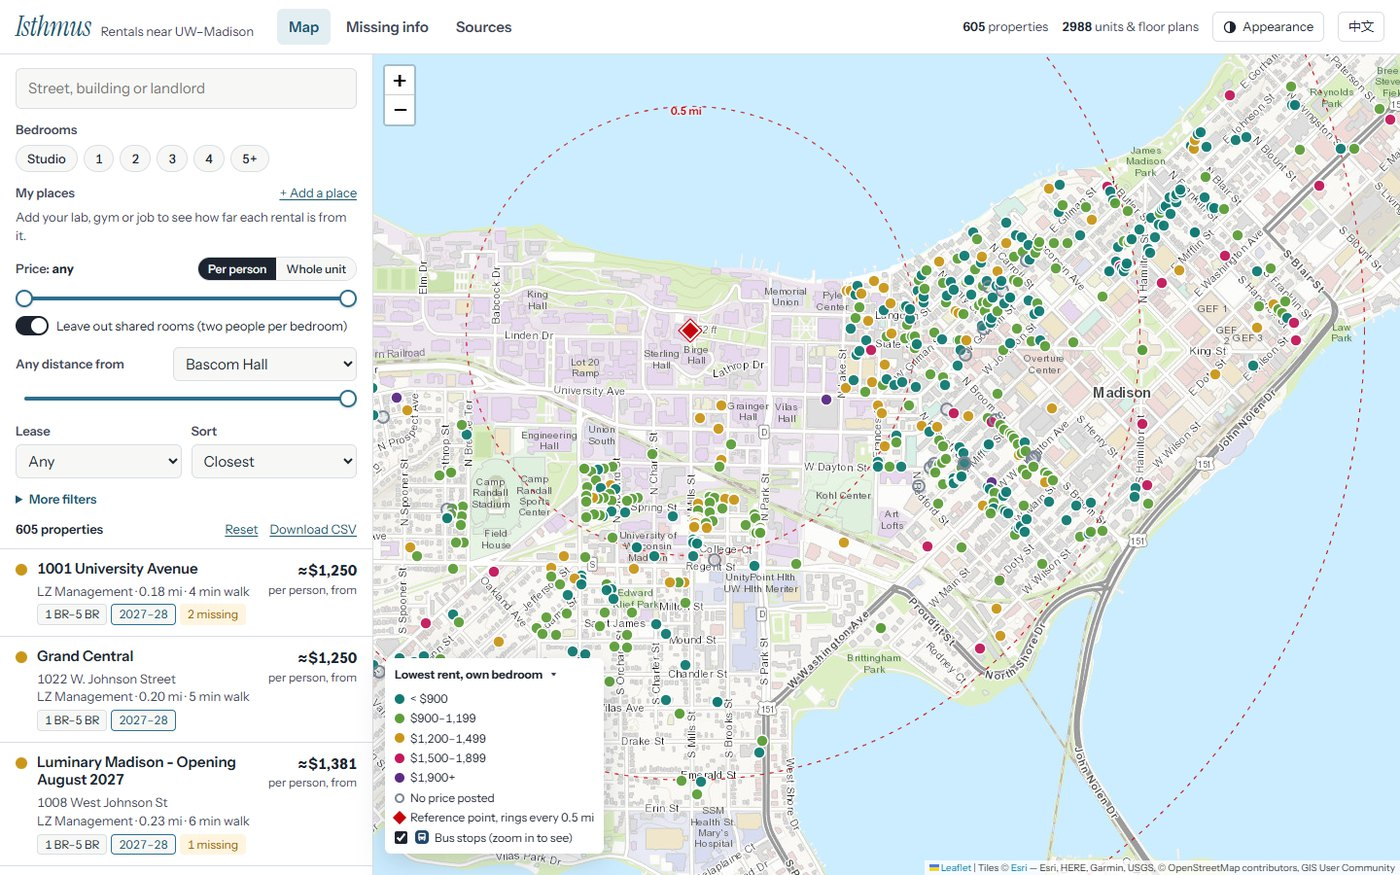
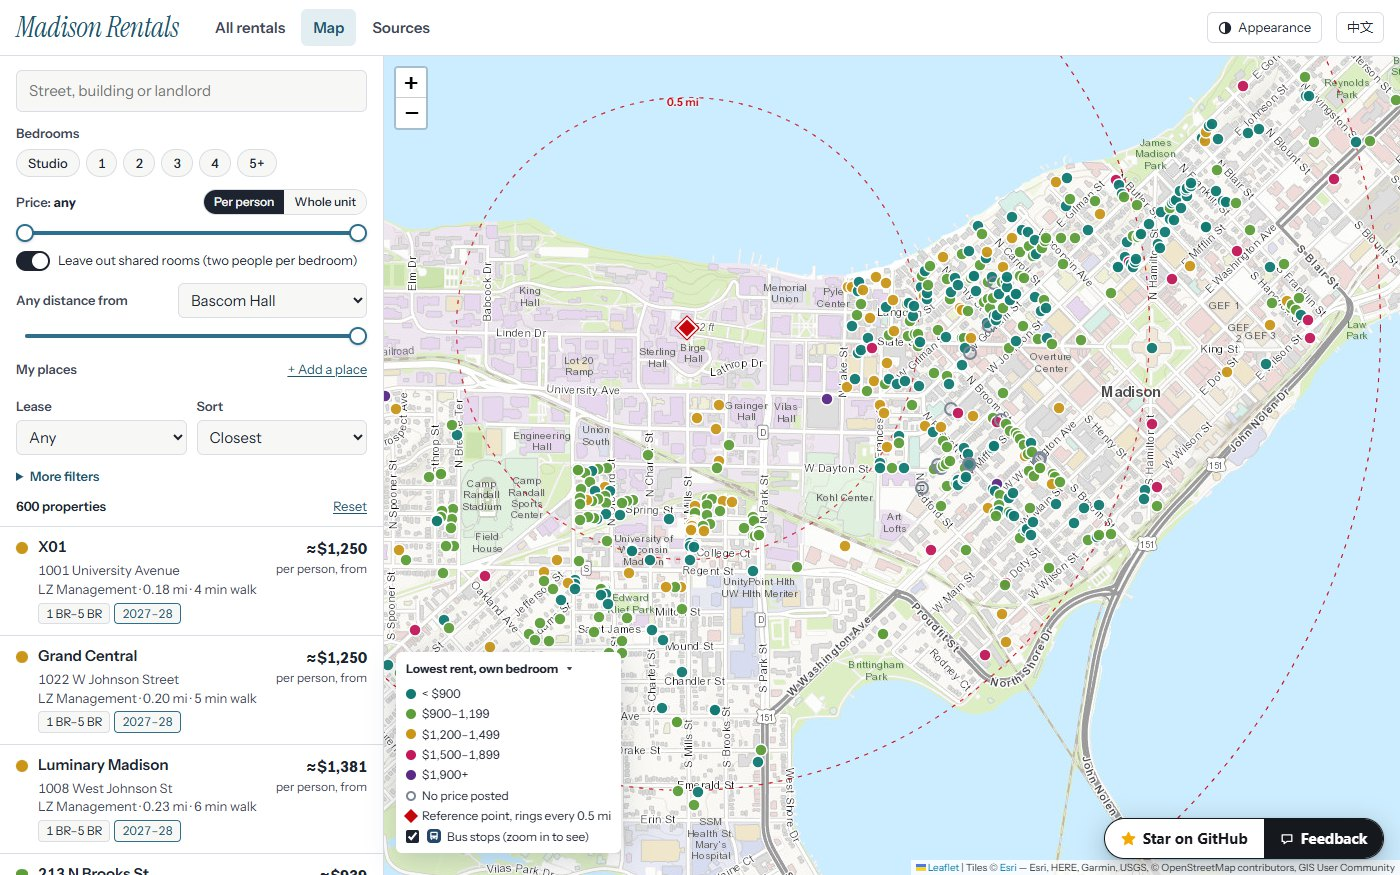
Cards: tools moved to madisonstudents.com subdomains; Isthmus Rentals is now Madison Rentals (new screenshot)

diff --git a/index.html b/index.html
@@ -615,34 +615,34 @@ h2{--w:780}
       <ul class="tbx">
         <!-- work:tools -->
         <li>
-          <a class="tbx-shot" href="https://webgrs.github.io/uw-course-lookup/" target="_blank" rel="noopener" tabindex="-1" aria-hidden="true"><img src="assets/uw-course-lookup.jpg" width="1400" height="897" alt="" loading="lazy" decoding="async"></a>
+          <a class="tbx-shot" href="https://courses.madisonstudents.com/" target="_blank" rel="noopener" tabindex="-1" aria-hidden="true"><img src="assets/uw-course-lookup.jpg" width="1400" height="897" alt="" loading="lazy" decoding="async"></a>
           <div class="tbx-tx">
             <h3>uw-course-lookup</h3>
             <p class="tbx-ds"><span class="en">Grades, seats and a degree-aware timetable planner for every Fall 2026 UW–Madison course</span><span class="zh" lang="zh-CN">Fall 2026 全部 UW–Madison 课程的成绩、座位，外加了解你学位要求的课表规划器</span></p>
             <p class="tbx-go">
-              <a class="open" href="https://webgrs.github.io/uw-course-lookup/" target="_blank" rel="noopener"><span class="en">Open<span class="sr"> uw-course-lookup</span></span><span class="zh" lang="zh-CN">打开<span class="sr"> uw-course-lookup</span></span></a>
+              <a class="open" href="https://courses.madisonstudents.com/" target="_blank" rel="noopener"><span class="en">Open<span class="sr"> uw-course-lookup</span></span><span class="zh" lang="zh-CN">打开<span class="sr"> uw-course-lookup</span></span></a>
               <a class="star" href="https://github.com/WEBGRS/uw-course-lookup" target="_blank" rel="noopener"><svg viewBox="0 0 16 16" width="15" height="15" aria-hidden="true" focusable="false"><path d="M8 1.2l2.1 4.5 4.9.6-3.6 3.4.9 4.9L8 12.2 3.7 14.6l.9-4.9L1 6.3l4.9-.6z" fill="currentColor" stroke="currentColor" stroke-width="1" stroke-linejoin="round"/></svg><span class="en">Star<span class="sr"> uw-course-lookup on GitHub</span></span><span class="zh" lang="zh-CN">点星<span class="sr"> uw-course-lookup（GitHub）</span></span></a>
             </p>
           </div>
         </li>
         <li>
-          <a class="tbx-shot" href="https://webgrs.github.io/madison-rentals/" target="_blank" rel="noopener" tabindex="-1" aria-hidden="true"><img src="assets/madison-rentals.jpg" width="1400" height="875" alt="" loading="lazy" decoding="async"></a>
+          <a class="tbx-shot" href="https://housing.madisonstudents.com/" target="_blank" rel="noopener" tabindex="-1" aria-hidden="true"><img src="assets/madison-rentals.jpg" width="1400" height="875" alt="" loading="lazy" decoding="async"></a>
           <div class="tbx-tx">
-            <h3>Isthmus Rentals</h3>
+            <h3>Madison Rentals</h3>
             <p class="tbx-ds"><span class="en">Every rental near campus on one map, each value labeled with where it came from</span><span class="zh" lang="zh-CN">校园周边的租房信息都在一张地图上，每个数值都标明来源</span></p>
             <p class="tbx-go">
-              <a class="open" href="https://webgrs.github.io/madison-rentals/" target="_blank" rel="noopener"><span class="en">Open<span class="sr"> Isthmus Rentals</span></span><span class="zh" lang="zh-CN">打开<span class="sr"> Isthmus Rentals</span></span></a>
-              <a class="star" href="https://github.com/WEBGRS/madison-rentals" target="_blank" rel="noopener"><svg viewBox="0 0 16 16" width="15" height="15" aria-hidden="true" focusable="false"><path d="M8 1.2l2.1 4.5 4.9.6-3.6 3.4.9 4.9L8 12.2 3.7 14.6l.9-4.9L1 6.3l4.9-.6z" fill="currentColor" stroke="currentColor" stroke-width="1" stroke-linejoin="round"/></svg><span class="en">Star<span class="sr"> Isthmus Rentals on GitHub</span></span><span class="zh" lang="zh-CN">点星<span class="sr"> Isthmus Rentals（GitHub）</span></span></a>
+              <a class="open" href="https://housing.madisonstudents.com/" target="_blank" rel="noopener"><span class="en">Open<span class="sr"> Madison Rentals</span></span><span class="zh" lang="zh-CN">打开<span class="sr"> Madison Rentals</span></span></a>
+              <a class="star" href="https://github.com/WEBGRS/madison-rentals" target="_blank" rel="noopener"><svg viewBox="0 0 16 16" width="15" height="15" aria-hidden="true" focusable="false"><path d="M8 1.2l2.1 4.5 4.9.6-3.6 3.4.9 4.9L8 12.2 3.7 14.6l.9-4.9L1 6.3l4.9-.6z" fill="currentColor" stroke="currentColor" stroke-width="1" stroke-linejoin="round"/></svg><span class="en">Star<span class="sr"> Madison Rentals on GitHub</span></span><span class="zh" lang="zh-CN">点星<span class="sr"> Madison Rentals（GitHub）</span></span></a>
             </p>
           </div>
         </li>
         <li>
-          <a class="tbx-shot" href="https://webgrs.github.io/madison-food-map/" target="_blank" rel="noopener" tabindex="-1" aria-hidden="true"><img src="assets/madison-food-map.jpg" width="1400" height="875" alt="" loading="lazy" decoding="async"></a>
+          <a class="tbx-shot" href="https://food.madisonstudents.com/" target="_blank" rel="noopener" tabindex="-1" aria-hidden="true"><img src="assets/madison-food-map.jpg" width="1400" height="875" alt="" loading="lazy" decoding="async"></a>
           <div class="tbx-tx">
             <h3>Madison Eats</h3>
             <p class="tbx-ds"><span class="en">Every place to eat in Dane County on one map, scored from six rating sources</span><span class="zh" lang="zh-CN">戴恩县所有能吃饭的地方放在一张地图上，按六个评分来源打分</span></p>
             <p class="tbx-go">
-              <a class="open" href="https://webgrs.github.io/madison-food-map/" target="_blank" rel="noopener"><span class="en">Open<span class="sr"> Madison Eats</span></span><span class="zh" lang="zh-CN">打开<span class="sr"> Madison Eats</span></span></a>
+              <a class="open" href="https://food.madisonstudents.com/" target="_blank" rel="noopener"><span class="en">Open<span class="sr"> Madison Eats</span></span><span class="zh" lang="zh-CN">打开<span class="sr"> Madison Eats</span></span></a>
               <a class="star" href="https://github.com/WEBGRS/madison-food-map" target="_blank" rel="noopener"><svg viewBox="0 0 16 16" width="15" height="15" aria-hidden="true" focusable="false"><path d="M8 1.2l2.1 4.5 4.9.6-3.6 3.4.9 4.9L8 12.2 3.7 14.6l.9-4.9L1 6.3l4.9-.6z" fill="currentColor" stroke="currentColor" stroke-width="1" stroke-linejoin="round"/></svg><span class="en">Star<span class="sr"> Madison Eats on GitHub</span></span><span class="zh" lang="zh-CN">点星<span class="sr"> Madison Eats（GitHub）</span></span></a>
             </p>
           </div>
@@ -669,7 +669,7 @@ h2{--w:780}
       <ul class="index" id="index">
         <!-- work:index -->
         <li><a href="#route-animator" data-i="0"><span class="nm">route-animator</span><span class="ds"><span class="en">Flies a route over a satellite globe and records the video in the browser</span><span class="zh" lang="zh-CN">在卫星地球上飞出一条路线，并直接在浏览器里录成视频</span></span><span class="kd"><span class="en">Web app</span><span class="zh" lang="zh-CN">网页应用</span></span></a></li>
-        <li><a href="#madison-rentals" data-i="1"><span class="nm">Isthmus Rentals</span><span class="ds"><span class="en">Every rental near campus on one map, each value labeled with where it came from</span><span class="zh" lang="zh-CN">校园周边的租房信息都在一张地图上，每个数值都标明来源</span></span><span class="kd"><span class="en">Web app, data</span><span class="zh" lang="zh-CN">网页应用 · 数据</span></span></a></li>
+        <li><a href="#madison-rentals" data-i="1"><span class="nm">Madison Rentals</span><span class="ds"><span class="en">Every rental near campus on one map, each value labeled with where it came from</span><span class="zh" lang="zh-CN">校园周边的租房信息都在一张地图上，每个数值都标明来源</span></span><span class="kd"><span class="en">Web app, data</span><span class="zh" lang="zh-CN">网页应用 · 数据</span></span></a></li>
         <li><a href="#madison-food-map" data-i="2"><span class="nm">Madison Eats</span><span class="ds"><span class="en">Every place to eat in Dane County on one map, scored from six rating sources</span><span class="zh" lang="zh-CN">戴恩县所有能吃饭的地方放在一张地图上，按六个评分来源打分</span></span><span class="kd"><span class="en">Web app, data</span><span class="zh" lang="zh-CN">网页应用 · 数据</span></span></a></li>
         <li><a href="#uw-course-lookup" data-i="3"><span class="nm">uw-course-lookup</span><span class="ds"><span class="en">Grades, seats and a degree-aware timetable planner for every Fall 2026 UW–Madison course</span><span class="zh" lang="zh-CN">Fall 2026 全部 UW–Madison 课程的成绩、座位，外加了解你学位要求的课表规划器</span></span><span class="kd"><span class="en">Web app + API</span><span class="zh" lang="zh-CN">网页应用 + API</span></span></a></li>
         <li><a href="#photo-organizer" data-i="4"><span class="nm">photo-organizer</span><span class="ds"><span class="en">Sorts a 310&nbsp;GB photo library on a local GPU</span><span class="zh" lang="zh-CN">在本地 GPU 上整理 310&nbsp;GB 的照片库</span></span><span class="kd"><span class="en">Python, CLIP</span><span class="zh" lang="zh-CN">Python、CLIP</span></span></a></li>
@@ -742,9 +742,9 @@ h2{--w:780}
           <figure class="cap-shot"><img src="assets/madison-rentals.jpg" width="1400" height="875" alt="Map of rentals near the UW–Madison campus, with filters and a price-colored pin for each property" loading="lazy" decoding="async"></figure>
           <div class="pg"><div class="pg-in">
             <p class="cap-n" data-k style="--k:0">02 / 06 &middot; <span class="en">Web app, data</span><span class="zh" lang="zh-CN">网页应用 · 数据</span></p>
-            <h3 aria-label="Isthmus Rentals"><span aria-hidden="true"><span class="ch" style="--c:0">I</span><span class="ch" style="--c:1">s</span><span class="ch" style="--c:2">t</span><span class="ch" style="--c:3">h</span><span class="ch" style="--c:4">m</span><span class="ch" style="--c:5">u</span><span class="ch" style="--c:6">s</span><span class="ch" style="--c:7">&nbsp;</span><span class="ch" style="--c:8">R</span><span class="ch" style="--c:9">e</span><span class="ch" style="--c:10">n</span><span class="ch" style="--c:11">t</span><span class="ch" style="--c:12">a</span><span class="ch" style="--c:13">l</span><span class="ch" style="--c:14">s</span></span></h3>
+            <h3 aria-label="Madison Rentals"><span aria-hidden="true"><span class="ch" style="--c:0">M</span><span class="ch" style="--c:1">a</span><span class="ch" style="--c:2">d</span><span class="ch" style="--c:3">i</span><span class="ch" style="--c:4">s</span><span class="ch" style="--c:5">o</span><span class="ch" style="--c:6">n</span><span class="ch" style="--c:7">&nbsp;</span><span class="ch" style="--c:8">R</span><span class="ch" style="--c:9">e</span><span class="ch" style="--c:10">n</span><span class="ch" style="--c:11">t</span><span class="ch" style="--c:12">a</span><span class="ch" style="--c:13">l</span><span class="ch" style="--c:14">s</span></span></h3>
             <p class="hook" data-k style="--k:2"><span class="en"><span class="count" data-to="605">605</span> rentals near campus on one map, every value labeled by where it came from, every gap turned into a question.</span><span class="zh" lang="zh-CN"><span class="count" data-to="605">605</span> 处校园周边的租房放在一张地图上，每个数值都标明来源，每处缺失都变成一个要问的问题。</span></p>
-            <p class="links" data-k style="--k:3"><a href="https://webgrs.github.io/madison-rentals/" target="_blank" rel="noopener"><span class="en">Live site</span><span class="zh" lang="zh-CN">在线站点</span></a><a href="https://github.com/WEBGRS/madison-rentals" target="_blank" rel="noopener"><span class="en">Source</span><span class="zh" lang="zh-CN">源码</span></a></p>
+            <p class="links" data-k style="--k:3"><a href="https://housing.madisonstudents.com/" target="_blank" rel="noopener"><span class="en">Live site</span><span class="zh" lang="zh-CN">在线站点</span></a><a href="https://github.com/WEBGRS/madison-rentals" target="_blank" rel="noopener"><span class="en">Source</span><span class="zh" lang="zh-CN">源码</span></a></p>
             <p class="built" data-k style="--k:3"><span class="en">Leaflet, vanilla JS, Python collectors, Madison Metro GTFS</span><span class="zh" lang="zh-CN">Leaflet、原生 JS、Python 采集脚本、Madison Metro GTFS</span></p>
             <ul>
               <li data-k style="--k:4"><span class="en"><span class="count" data-to="2988">2,988</span> units and floor plans from 67 landlords, merged from their own sites and the UW Off-Campus Housing service.</span><span class="zh" lang="zh-CN"><span class="count" data-to="2988">2,988</span> 个单元和户型，来自 67 位房东，由他们自己的网站和 UW Off-Campus Housing 服务合并而成。</span></li>
@@ -752,7 +752,7 @@ h2{--w:780}
             </ul>
           </div></div>
           <div class="pg"><div class="pg-in">
-            <p class="pg-h" data-k style="--k:0"><b>Isthmus Rentals</b> &middot; <span class="en">How it works</span><span class="zh" lang="zh-CN">运作方式</span></p>
+            <p class="pg-h" data-k style="--k:0"><b>Madison Rentals</b> &middot; <span class="en">How it works</span><span class="zh" lang="zh-CN">运作方式</span></p>
             <ul>
               <li data-k style="--k:1"><span class="en">Every value carries its source: the landlord&rsquo;s site, the UW list, text read out of a description, or nothing. Unknown stays unknown instead of becoming a plausible guess.</span><span class="zh" lang="zh-CN">每个值都带着来源：房东网站、UW 列表、从描述里读出的文字，或者没有来源。未知就保持未知，不会被一个看似合理的猜测替代。</span></li>
               <li data-k style="--k:2"><span class="en">Landlords quote rent per person or per unit and rarely say which. Each price is tagged with its evidence; when none settles it, the price is read as whichever puts one person between $800 and $1,500.</span><span class="zh" lang="zh-CN">房东报价有的按人、有的按整套，而且很少说明是哪种。每个价格都标有依据；依据都不成立时，就按能让一个人的租金落在 $800 到 $1,500 之间的那种理解来读。</span></li>
@@ -862,7 +862,7 @@ h2{--w:780}
 <!-- /fig:madison-rentals-provenance --><figcaption><span class="en">Where seven fields came from across all <span class="count" data-to="605">605</span> properties. Solid is a source, dashed is none. Furnished is unknown for 85% of them, and the map says so.</span><span class="zh" lang="zh-CN">七个字段的来源分布，覆盖全部 <span class="count" data-to="605">605</span> 处房源。实线是有来源，虚线是没有。有 85% 的房源不知道有没有家具，地图如实标出。</span></figcaption></figure>
           </div></div>
           <div class="pg"><div class="pg-in">
-            <p class="pg-h" data-k style="--k:0"><b>Isthmus Rentals</b> &middot; <span class="en">What the data says</span><span class="zh" lang="zh-CN">数据说了什么</span></p>
+            <p class="pg-h" data-k style="--k:0"><b>Madison Rentals</b> &middot; <span class="en">What the data says</span><span class="zh" lang="zh-CN">数据说了什么</span></p>
             <ul>
               <li data-k style="--k:1"><span class="en">Closer costs more, and not just because of bedrooms: median rent per person is $1,200 within 0.4 mi of Bascom Hall and $978 at 1&ndash;1.25 mi.</span><span class="zh" lang="zh-CN">离校园越近越贵，而且不只是卧室数的缘故：Bascom Hall 0.4 英里内的人均租金中位数是 $1,200，在 1 到 1.25 英里处是 $978。</span></li>
               <li data-k style="--k:2"><span class="en">Each property is one point, its median listing; shared rooms are left out. The rank correlation is &minus;0.29 once each rent is divided by the median for its bedroom count (permutation p &lt; 0.001).</span><span class="zh" lang="zh-CN">每处房源只算一个点，取它的中位数报价；合租间不计入。把每个租金除以同卧室数的中位数之后，秩相关为 &minus;0.29（置换检验 p &lt; 0.001）。</span></li>
@@ -935,7 +935,7 @@ h2{--w:780}
             <p class="cap-n" data-k style="--k:0">03 / 06 &middot; <span class="en">Web app, data</span><span class="zh" lang="zh-CN">网页应用 · 数据</span></p>
             <h3 aria-label="Madison Eats"><span aria-hidden="true"><span class="ch" style="--c:0">M</span><span class="ch" style="--c:1">a</span><span class="ch" style="--c:2">d</span><span class="ch" style="--c:3">i</span><span class="ch" style="--c:4">s</span><span class="ch" style="--c:5">o</span><span class="ch" style="--c:6">n</span><span class="ch" style="--c:7">&nbsp;</span><span class="ch" style="--c:8">E</span><span class="ch" style="--c:9">a</span><span class="ch" style="--c:10">t</span><span class="ch" style="--c:11">s</span></span></h3>
             <p class="hook" data-k style="--k:2"><span class="en"><span class="count" data-to="2292">2,292</span> places to eat in Dane County, scored from six rating sources, with the delivery apps that carry each one.</span><span class="zh" lang="zh-CN"><span class="count" data-to="2292">2,292</span> 家戴恩县的餐饮店，按六个评分来源打分，并标出各家上了哪些外卖平台。</span></p>
-            <p class="links" data-k style="--k:3"><a href="https://webgrs.github.io/madison-food-map/" target="_blank" rel="noopener"><span class="en">Live site</span><span class="zh" lang="zh-CN">在线站点</span></a><a href="https://github.com/WEBGRS/madison-food-map" target="_blank" rel="noopener"><span class="en">Source</span><span class="zh" lang="zh-CN">源码</span></a></p>
+            <p class="links" data-k style="--k:3"><a href="https://food.madisonstudents.com/" target="_blank" rel="noopener"><span class="en">Live site</span><span class="zh" lang="zh-CN">在线站点</span></a><a href="https://github.com/WEBGRS/madison-food-map" target="_blank" rel="noopener"><span class="en">Source</span><span class="zh" lang="zh-CN">源码</span></a></p>
             <p class="built" data-k style="--k:3"><span class="en">Python collectors, vanilla JS, Leaflet, Cloudflare Workers</span><span class="zh" lang="zh-CN">Python 采集脚本、原生 JS、Leaflet、Cloudflare Workers</span></p>
             <ul>
               <li data-k style="--k:4"><span class="en">Photo cards, a map and a delivery-app tab, searchable in English or Chinese, with filters for cuisine, occasion and open now. Each place shows highlights such as its rank within its cuisine.</span><span class="zh" lang="zh-CN">照片卡片、地图和外卖平台页，支持中英文搜索，可按菜系、场合和营业中筛选。每家店会显示几条亮点，比如它在本菜系中的排名。</span></li>
@@ -1120,7 +1120,7 @@ h2{--w:780}
             <p class="cap-n" data-k style="--k:0">04 / 06 &middot; <span class="en">Web app + API</span><span class="zh" lang="zh-CN">网页应用 + API</span></p>
             <h3 aria-label="uw-course-lookup"><span aria-hidden="true"><span class="ch" style="--c:0">u</span><span class="ch" style="--c:1">w</span><span class="ch" style="--c:2">-</span><span class="ch" style="--c:3">c</span><span class="ch" style="--c:4">o</span><span class="ch" style="--c:5">u</span><span class="ch" style="--c:6">r</span><span class="ch" style="--c:7">s</span><span class="ch" style="--c:8">e</span><span class="ch" style="--c:9">-</span><span class="ch" style="--c:10">l</span><span class="ch" style="--c:11">o</span><span class="ch" style="--c:12">o</span><span class="ch" style="--c:13">k</span><span class="ch" style="--c:14">u</span><span class="ch" style="--c:15">p</span></span></h3>
             <p class="hook" data-k style="--k:2"><span class="en">Grade history, instructor GPAs and seats for all <span class="count" data-to="4438">4,438</span> Fall 2026 UW–Madison courses, plus a timetable planner that knows your degree.</span><span class="zh" lang="zh-CN"><span class="count" data-to="4438">4,438</span> 门 Fall 2026 UW–Madison 课程的成绩历史、教师 GPA 和座位，还有一个了解你学位要求的课表规划器。</span></p>
-            <p class="links" data-k style="--k:3"><a href="https://webgrs.github.io/uw-course-lookup/" target="_blank" rel="noopener"><span class="en">Live site</span><span class="zh" lang="zh-CN">在线站点</span></a><a href="https://github.com/WEBGRS/uw-course-lookup" target="_blank" rel="noopener"><span class="en">Source</span><span class="zh" lang="zh-CN">源码</span></a></p>
+            <p class="links" data-k style="--k:3"><a href="https://courses.madisonstudents.com/" target="_blank" rel="noopener"><span class="en">Live site</span><span class="zh" lang="zh-CN">在线站点</span></a><a href="https://github.com/WEBGRS/uw-course-lookup" target="_blank" rel="noopener"><span class="en">Source</span><span class="zh" lang="zh-CN">源码</span></a></p>
             <p class="built" data-k style="--k:3"><span class="en">Vanilla JS, Cloudflare Workers and Workers AI, SQLite, GitHub Actions CI</span><span class="zh" lang="zh-CN">原生 JS、Cloudflare Workers 与 Workers AI、SQLite、GitHub Actions CI</span></p>
             <ul>
               <li data-k style="--k:4"><span class="en">A sticky A&ndash;F band morphs into whichever course you hover, with ticks marking the campus-wide split, so every row reads against the baseline.</span><span class="zh" lang="zh-CN">顶部的 A&ndash;F 条会变形成你悬停的那门课的分布，刻度线标出全校的整体分布，每一行都能和基准比较。</span></li>
@@ -1648,7 +1648,7 @@ h2{--w:780}
 {
   "this site": ["WebGL", "OffscreenCanvas", "Canvas 2D", "USGS 3DEP"],
   "route-animator": ["MapLibre GL", "Canvas 2D", "MediaRecorder", "WebGL", "Esri World Imagery"],
-  "Isthmus Rentals": ["Leaflet", "Madison Metro GTFS", "OpenStreetMap", "Nominatim", "Esri World Imagery"],
+  "Madison Rentals": ["Leaflet", "Madison Metro GTFS", "OpenStreetMap", "Nominatim", "Esri World Imagery"],
   "Madison Eats": ["Leaflet", "Cloudflare Workers", "Cloudflare Turnstile", "OpenStreetMap", "Esri World Imagery", "Public Health Madison & Dane County"],
   "geo-spoof": ["Leaflet", "Chrome MV3", "OpenStreetMap", "Nominatim"],
   "tophat-watch": ["Chrome MV3", "ntfy", "Playwright"],
